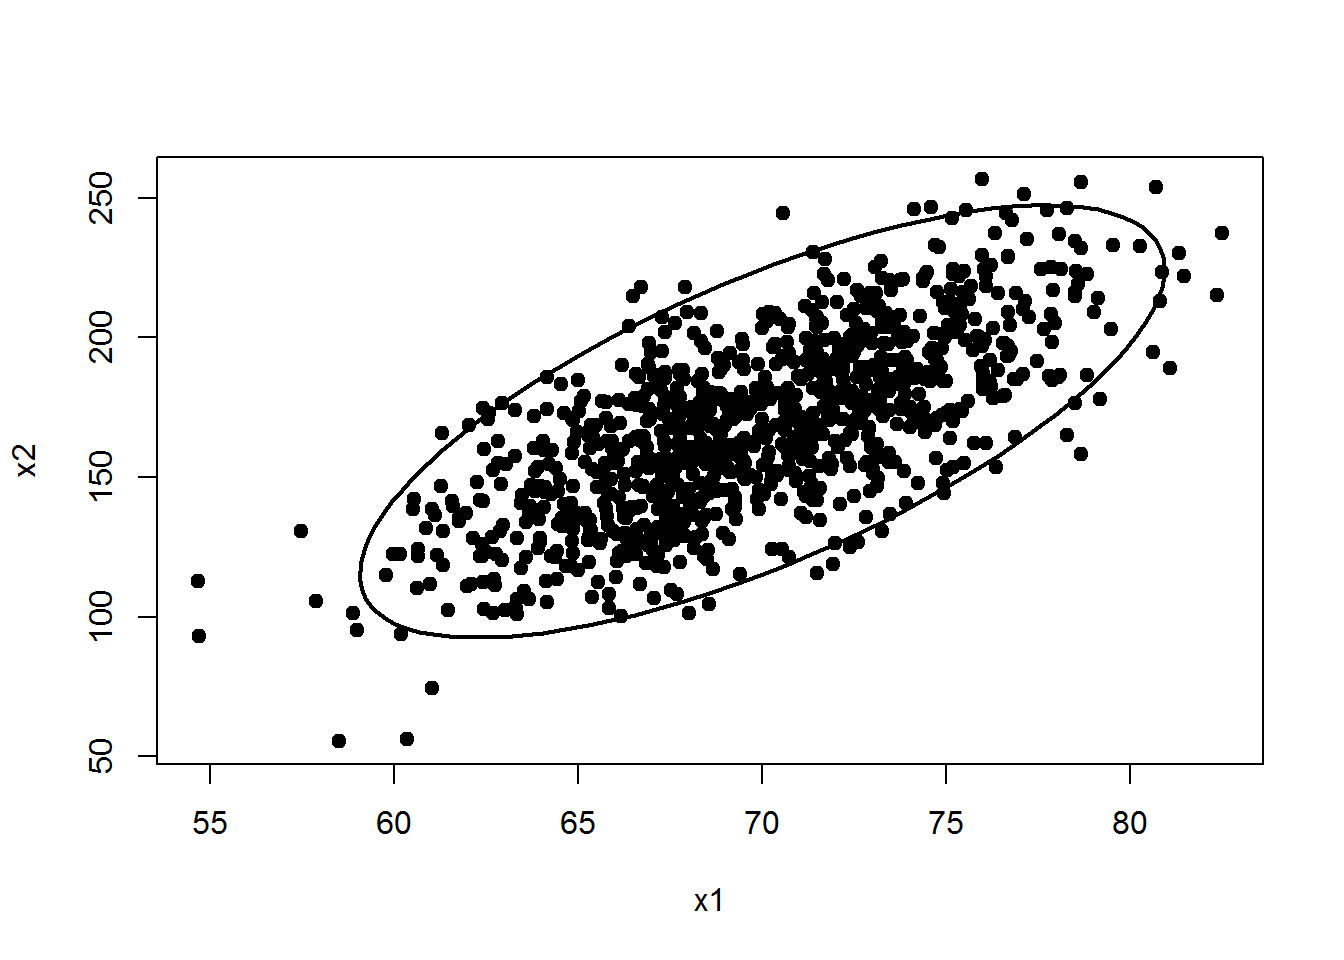
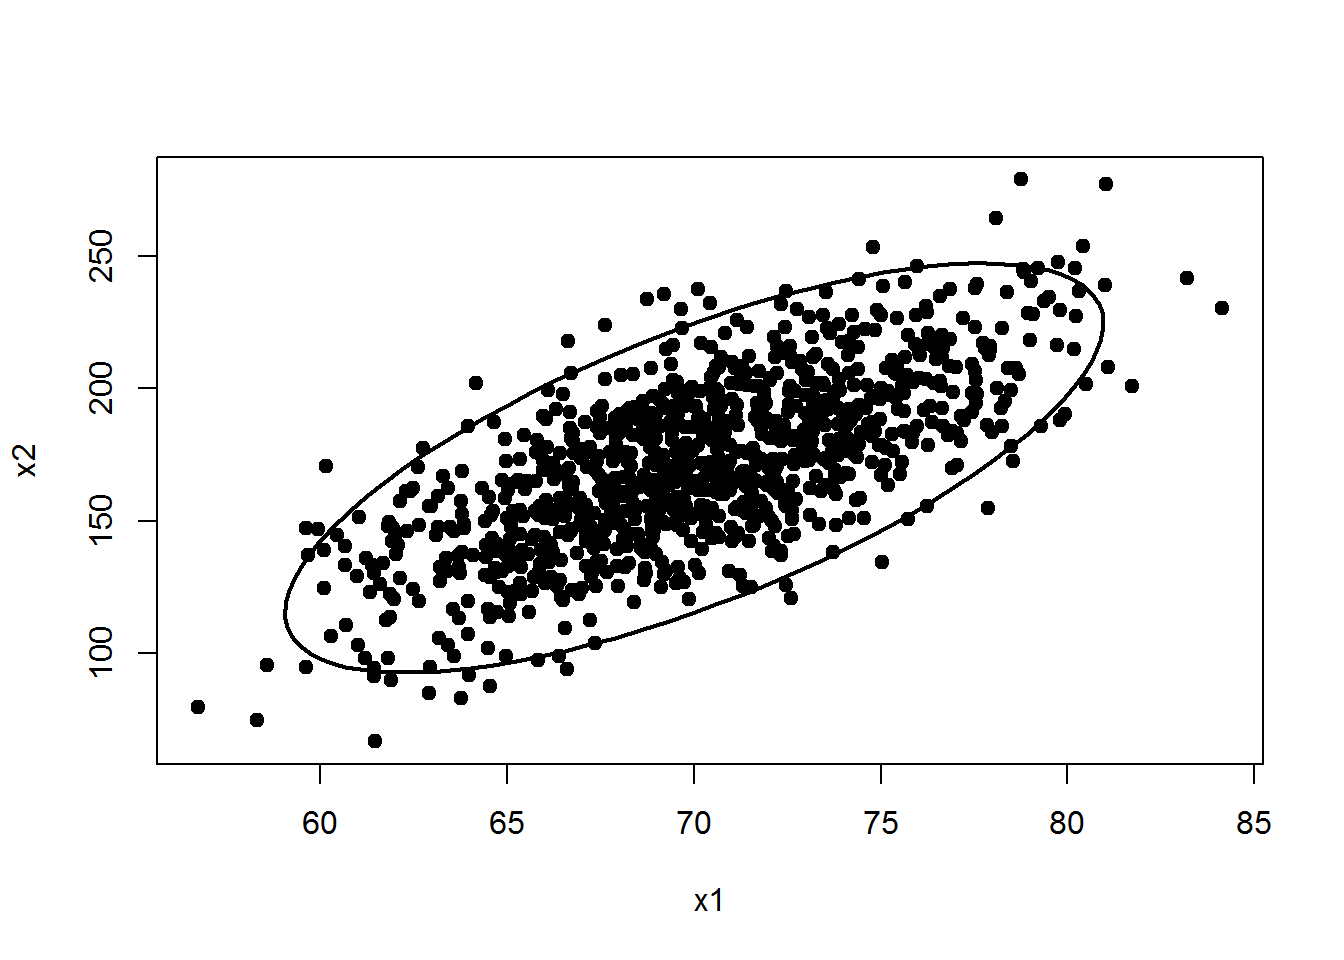
mejoras

diff --git a/Publicaciones/Multivariado/Elipse de confianza/header.html b/Publicaciones/Multivariado/Elipse de confianza/header.html
@@ -129,8 +129,8 @@ $(document).ready(function () {
 <head>
 <style>
 hr { 
-    color: #34AFF1;
-    background-color: #34AFF1;
+    color: #DA8A25;
+    background-color: #9BA8AF;
     height: 5px;
 } 
 </style>

diff --git a/Publicaciones/Multivariado/Elipse de confianza/Elipse_de_confianza.md b/Publicaciones/Multivariado/Elipse de confianza/Elipse_de_confianza.md
@@ -2,13 +2,15 @@
 <!DOCTYPE html>
 <html>
 <head>
+
 <style>
 hr { 
-    color: #34AFF1;
-    background-color: #34AFF1;
+    color: #DA8A25;
+    background-color: #9BA8AF;
     height: 5px;
 } 
 </style>
+
 </head>
 <body>
 
@@ -73,12 +75,12 @@ require(MASS)
 dt <- mvrnorm(n=1000, mu=centro, Sigma)
 head(dt)  # para ver las primeras lineas
 ##          [,1]     [,2]
-## [1,] 72.44453 176.6612
-## [2,] 73.81056 198.2517
-## [3,] 69.18736 138.4243
-## [4,] 68.83848 187.5725
-## [5,] 66.58475 186.8611
-## [6,] 73.43263 203.8511
+## [1,] 71.28757 208.2698
+## [2,] 74.34740 157.7327
+## [3,] 75.64061 211.7014
+## [4,] 67.59678 141.0570
+## [5,] 74.58703 222.2585
+## [6,] 66.75929 183.1020
 ```
 
 Para crear el diagrama de dispersión y superponer la elipse usamos el siguiente código.
@@ -95,10 +97,10 @@ Para determinar el porcentaje de puntos que están dentro de la elipse podemos u
 ``` r
 d <- mahalanobis(x=dt, center=centro, cov=Sigma)
 mean(d <= qchisq(p=0.95, df=2))
-## [1] 0.954
+## [1] 0.946
 ```
 
-Vemos que 95.4% de los puntos están dentro lo cual es un valor muy cercano al valor nominal de la elipse de 95%.
+Vemos que 94.6% de los puntos están dentro lo cual es un valor muy cercano al valor nominal de la elipse de 95%.
 
 Por último vamos a dibujar los puntos que están por dentro de la elipse con color azul y los que están por fuera con color rojo.
 

diff --git a/Publicaciones/Multivariado/Elipse de confianza/header.md b/Publicaciones/Multivariado/Elipse de confianza/header.md
@@ -1,13 +1,15 @@
 <!DOCTYPE html>
 <html>
 <head>
+
 <style>
 hr { 
-    color: #34AFF1;
-    background-color: #34AFF1;
+    color: #DA8A25;
+    background-color: #9BA8AF;
     height: 5px;
 } 
 </style>
+
 </head>
 <body>
 
